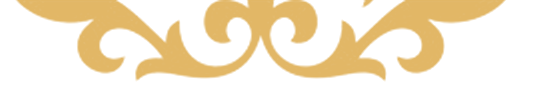
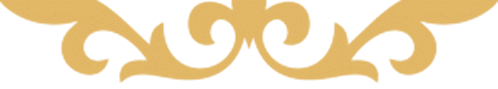
fix: орнаменты больше не обрезаны (перевырезаны с авто-обрезкой + зеркальная симметрия)

diff --git a/index.html b/index.html
@@ -56,7 +56,7 @@
   .author .zh{font-family:"Noto Serif SC";font-weight:400;letter-spacing:.2em;font-size:.7em;margin-left:.32em;color:var(--soft);}
   .uni{margin-top:1.1vh;font-weight:300;font-size:clamp(15px,2.3vh,22px);letter-spacing:.1em;color:var(--soft);}
   .uni .en{display:block;font-family:"Cormorant Garamond",serif;font-style:italic;font-size:.86em;letter-spacing:.12em;color:var(--gold);margin-top:.4vh;}
-  .hero-orn{width:clamp(120px,16vh,150px);aspect-ratio:290/195;margin:3vh auto 3.4vh;
+  .hero-orn{width:clamp(132px,17vh,164px);aspect-ratio:302/186;margin:3vh auto 3.4vh;
     background:url('ppt-bg/kz/orn-medallion.png') center/contain no-repeat;
     animation:ornIn 1.3s cubic-bezier(.22,1.1,.36,1) .4s both, ornGlow 4.2s ease-in-out 1.8s infinite;}
   @keyframes ornIn{from{opacity:0;transform:scale(.55) rotate(-10deg)}to{opacity:.96;transform:none}}